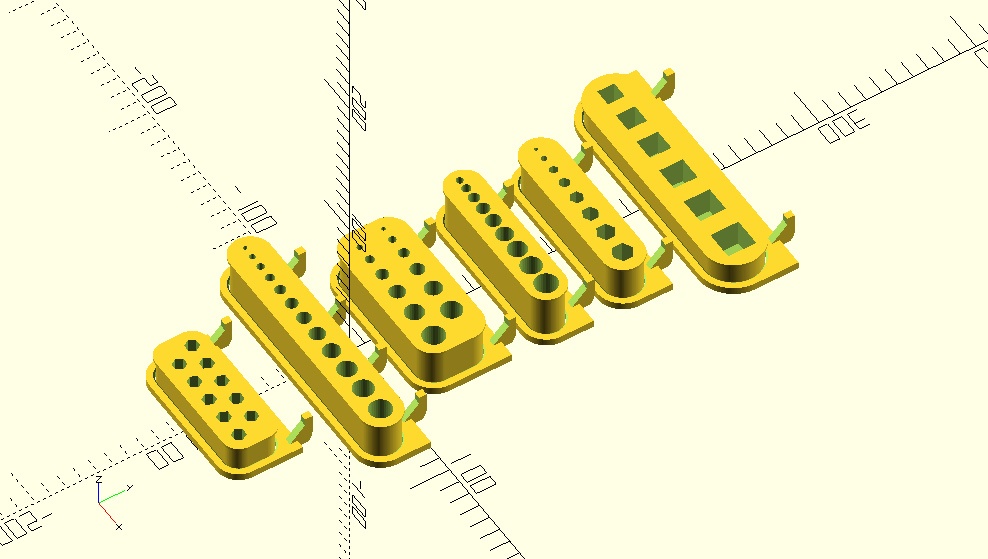
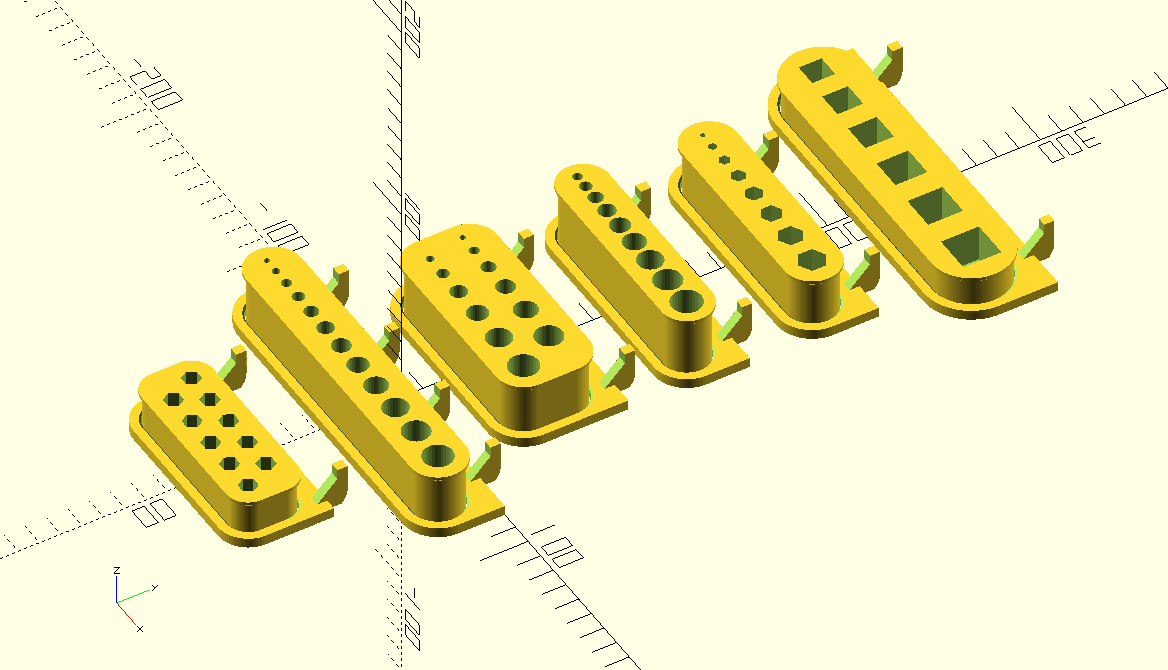
Set default step value to 0 instead of one for the skadis_bits_serie() module.

diff --git a/ikea_skadis_pegboard_accessories/ikea_skadis_demo.md b/ikea_skadis_pegboard_accessories/ikea_skadis_demo.md
@@ -307,12 +307,12 @@ Where **h** is the inner height of the bits holder. The parameter **d** is the d
 
 ```
 // bits serie demo
-skadis_bits_serie(all_pegs = true);
-translate([0, -60, 0]) skadis_bits_serie(d = 8, facets = 6, step = 0, n = 10, h = 20, compact = true);
-translate([0, 70, 0]) skadis_bits_serie(compact = true);
-translate([0, 120, 0]) skadis_bits_serie(h = 32, d = 1.2, step = 1.2, tolerance2 = 3.2, n = 9, compact = false);
-translate([0, 170, 0]) skadis_bits_serie(h = 28, d = 2.3, step = 1.5, n = 8, facets = 6, angle = 30, bottom = false, compact = false, tolerance2 = 0.2);
-translate([0, 235, 0]) skadis_bits_serie(h = 18, d = 14.6, step = 2, n = 6, facets = 4, angle = 45):
+skadis_bits_serie(step = 1, all_pegs = true);
+translate([0, -60, 0]) skadis_bits_serie(d = 8, facets = 6, n = 10, h = 20, compact = true);
+translate([0, 75, 0]) skadis_bits_serie(step = 1, compact = true);
+translate([0, 130, 0]) skadis_bits_serie(h = 32, d = 1.2, step = 1.2, tolerance2 = 3.2, n = 9, compact = false);
+translate([0, 190, 0]) skadis_bits_serie(h = 28, d = 2.3, step = 1.5, n = 8, facets = 6, angle = 30, bottom = false, compact = false, tolerance2 = 0.2);
+translate([0, 260, 0]) skadis_bits_serie(h = 18, d = 14.6, step = 2, n = 6, facets = 4, angle = 45);
 ```
 
 ![Ikea Skådis bits serie](images/IkeaSkadisBitsSerie.png)
